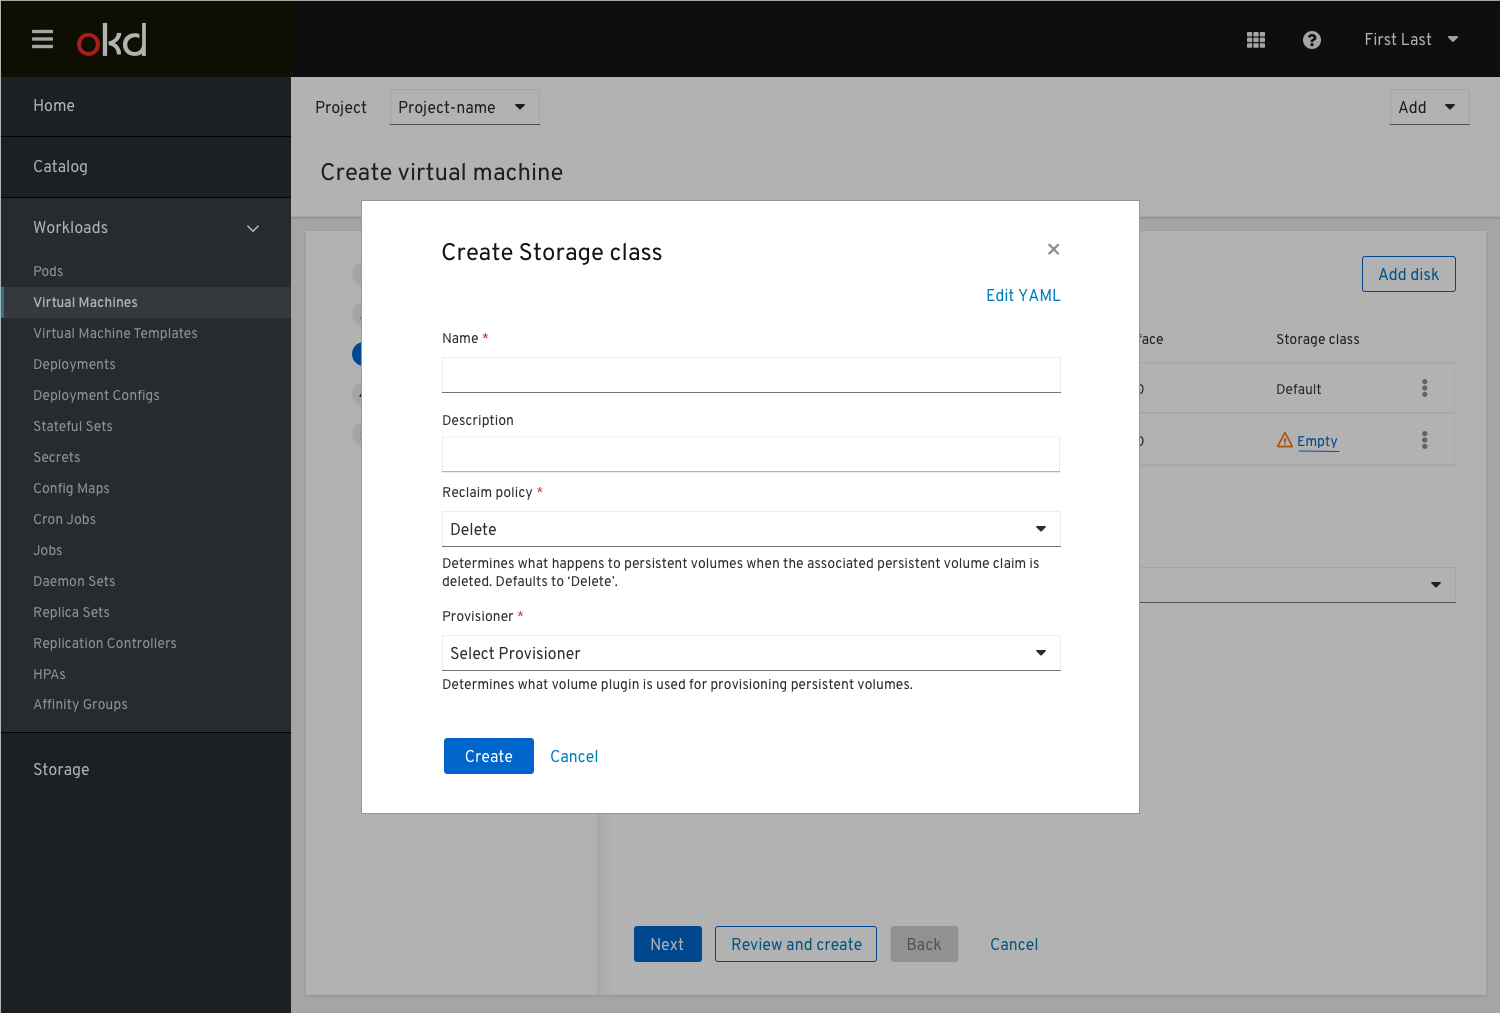
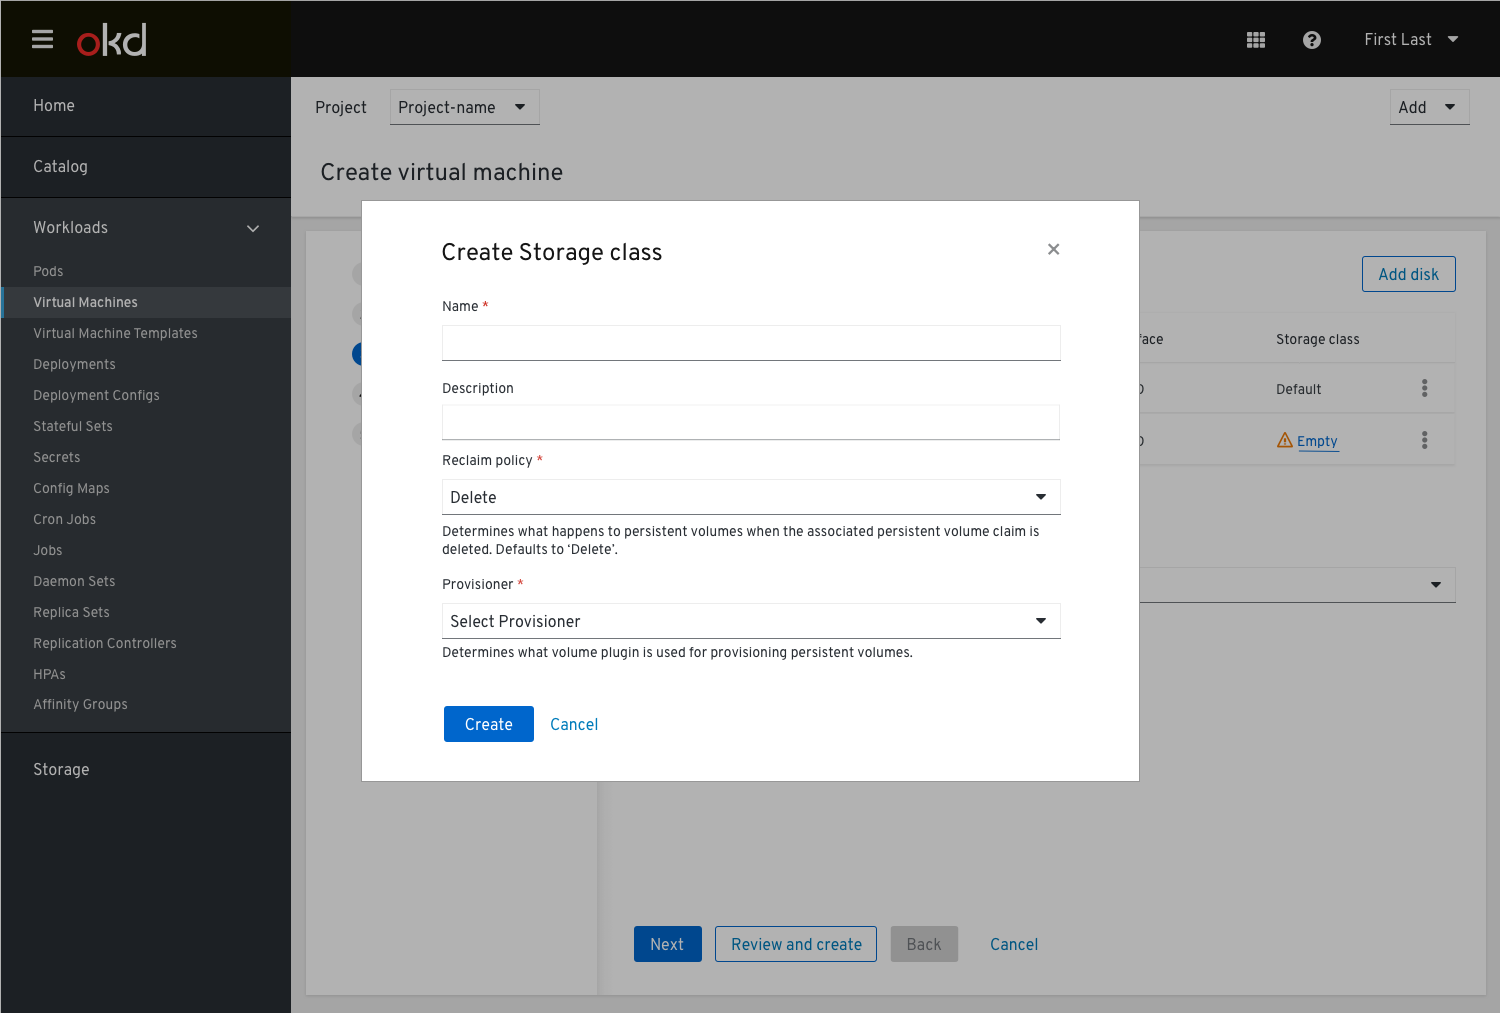
text changes in md and removing alert message

Changed region(s): [[0.2147, 0.3672, 0.7667, 0.8263], [0.644, 0.2754, 0.7053, 0.306]]

diff --git a/web-console/knikubevirt/NoStorageClassAvailable/NoStorageClassAvailable.md b/web-console/knikubevirt/NoStorageClassAvailable/NoStorageClassAvailable.md
@@ -14,6 +14,8 @@ We want to allow the user to set the Storage class within the wizard, with no ne
 
 ![Fill in disk details](img/Add-disk-modal-details-required.png)
 
+The "Create storage class and add disk" action wouldn't appear until the user decided they need to create a storage class.  That's why this is the only option in the dropdown and then the additional fields show up. Once the user filled them all out, they would click the primary create button.
+
 ![Add disk modal with create storage class](img/Add-disk-modal-with-create-sc.png)
 
 Clicking the ‘Create Storage class and add disk’ button at the bottom will add the disk to the list view.
